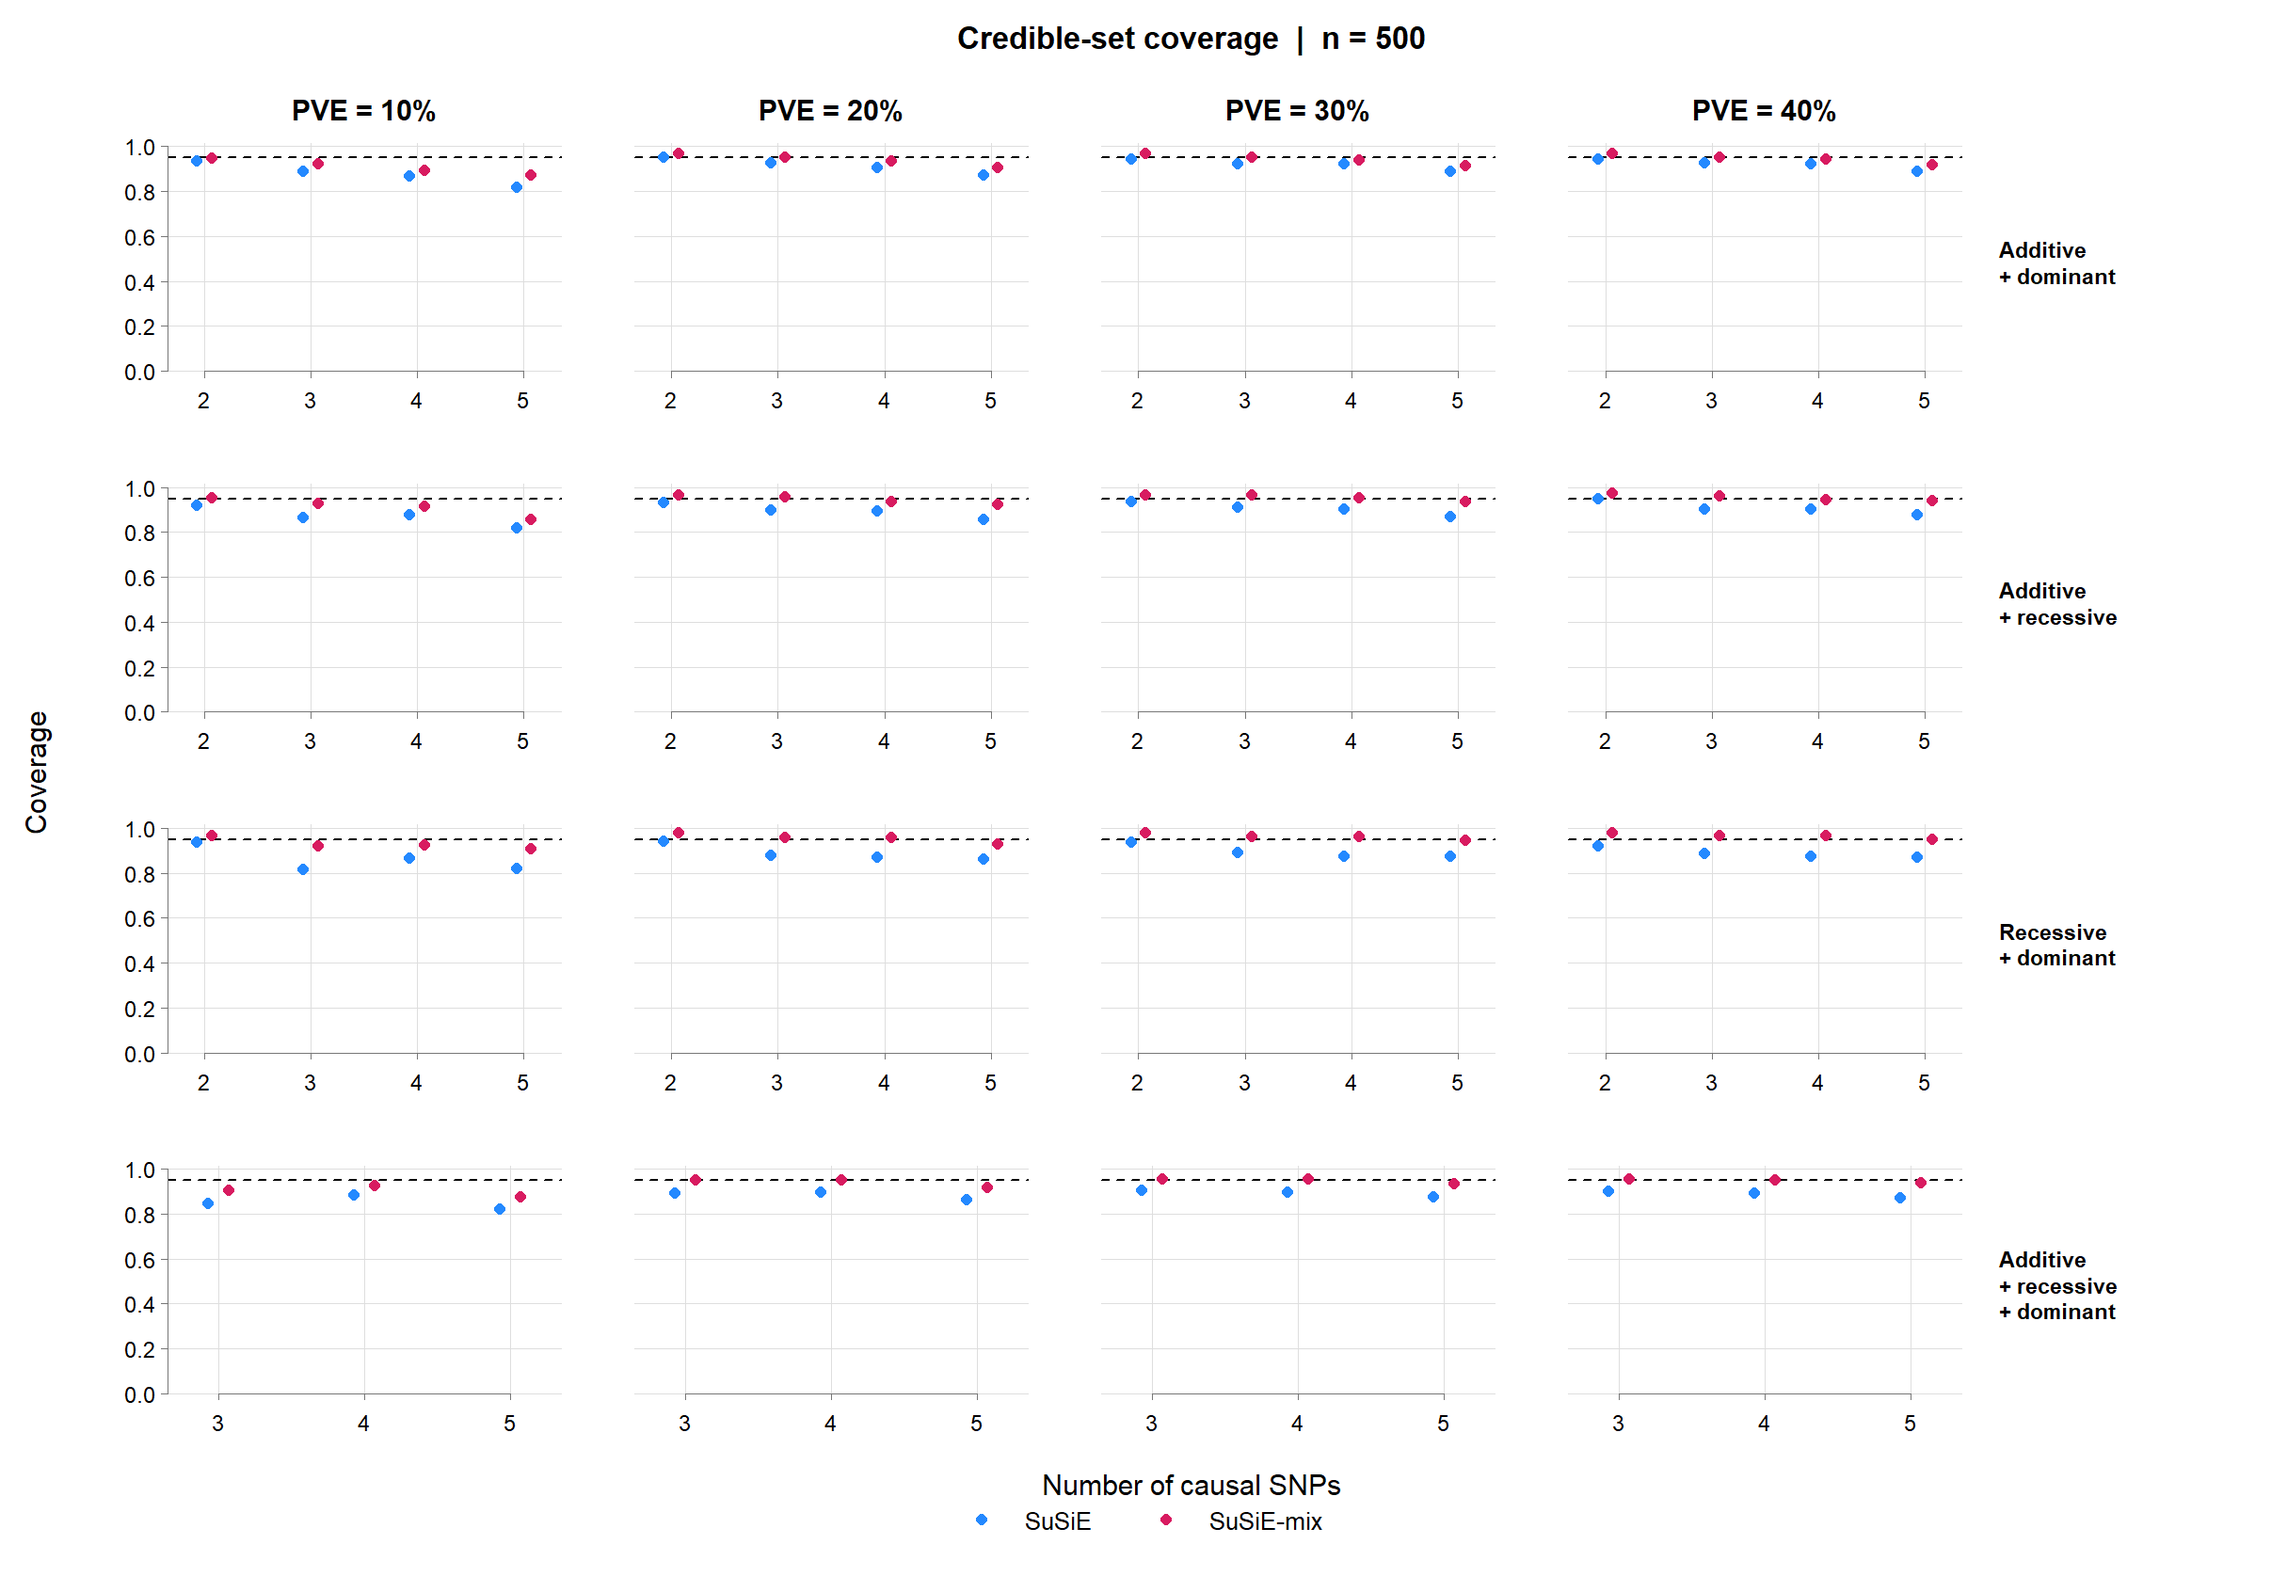
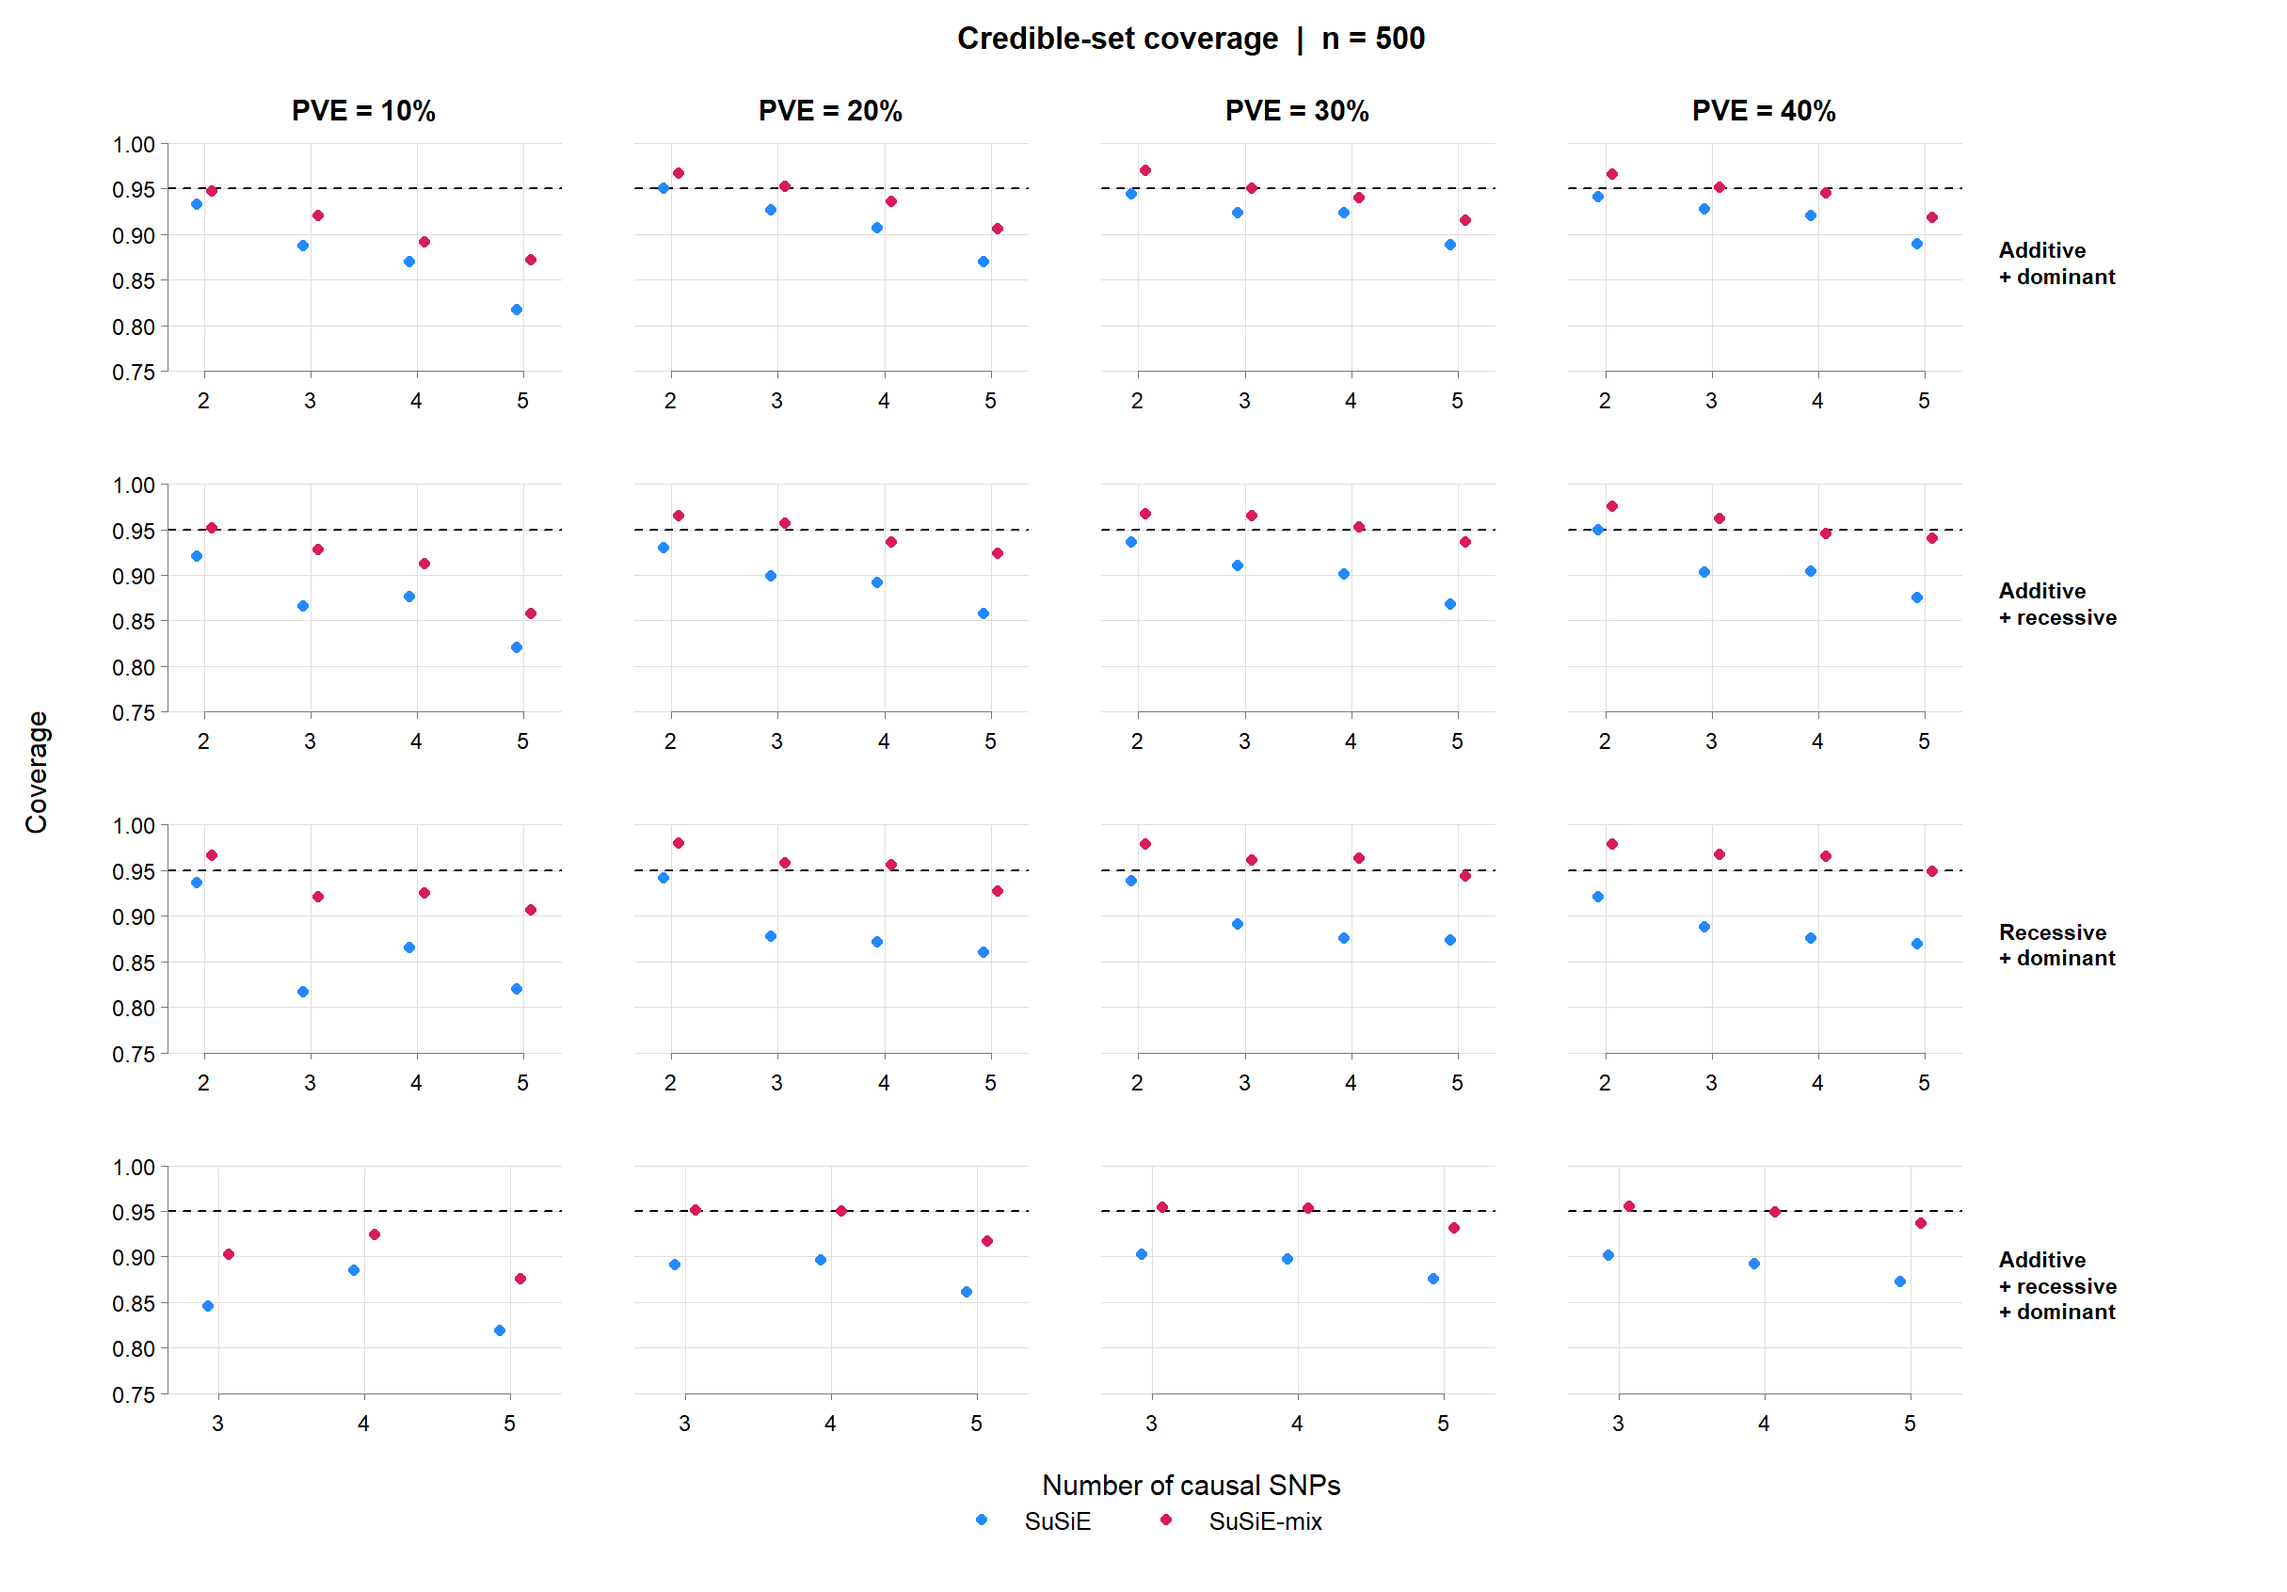
add plots

diff --git a/script/sim/README_plots.md b/script/sim/README_plots.md
@@ -12,6 +12,8 @@ The script reads `simulation results/chunks` and writes to `simulation results/f
 
 Each main figure is saved as both PDF and PNG. Blue is SuSiE; pink is SuSiE-mix. Columns are PVE 10%, 20%, 30%, and 40%.
 
+Both coverage figures share a y-axis ending at 1. The lower limit is calculated from the lowest coverage across the pure and mixed scenarios, with a small margin, rounded down to a multiple of 0.05. For the current full results, this gives 0.75 to 1.00. The 0.95 reference remains visible.
+
 | Output | Rows | Within each panel |
 |---|---|---|
 | `coverage_pure`, `purity_pure`, `power_pure` | Additive only; dominant only; recessive only | Number of true causal SNPs from 1 to 5 |
@@ -52,4 +54,4 @@ The script checks the saved settings against filenames, uses n = 500 and fitted 
 
 For a quick local preview, change `max_reps_per_file <- Inf` to 5, and preferably give previews a different `output_dir`. Restore `Inf` for the final figures. `write_png <- FALSE` writes only PDFs; `roc_max_fpr <- 1` displays the full ROC range.
 
-Only a small smoke test was run during development: 3 records from each of 9 selected files, leaving 24 distinct simulations after duplicate removal. All seven scenario types were represented. The test also checked no-CS handling, tied PIPs, threshold endpoints and agreement with saved workhorse metrics. Test output is under `tmp/simulation_plot_smoke`, not the final figures directory. The full simulation analysis has not been run.
+Only a small smoke test was run during initial development: 3 records from each of 9 selected files, leaving 24 distinct simulations after duplicate removal. All seven scenario types were represented. The test also checked no-CS handling, tied PIPs, threshold endpoints and agreement with saved workhorse metrics. Test output is under `tmp/simulation_plot_smoke`, not the final figures directory. The development test did not run the full simulation collection.
